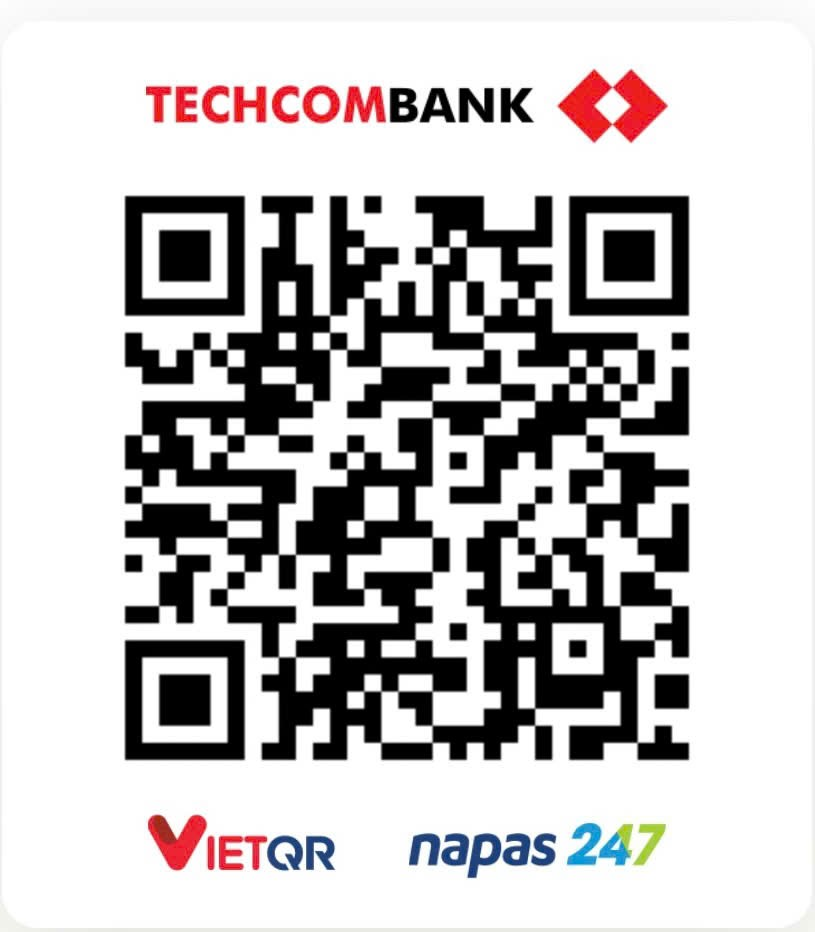
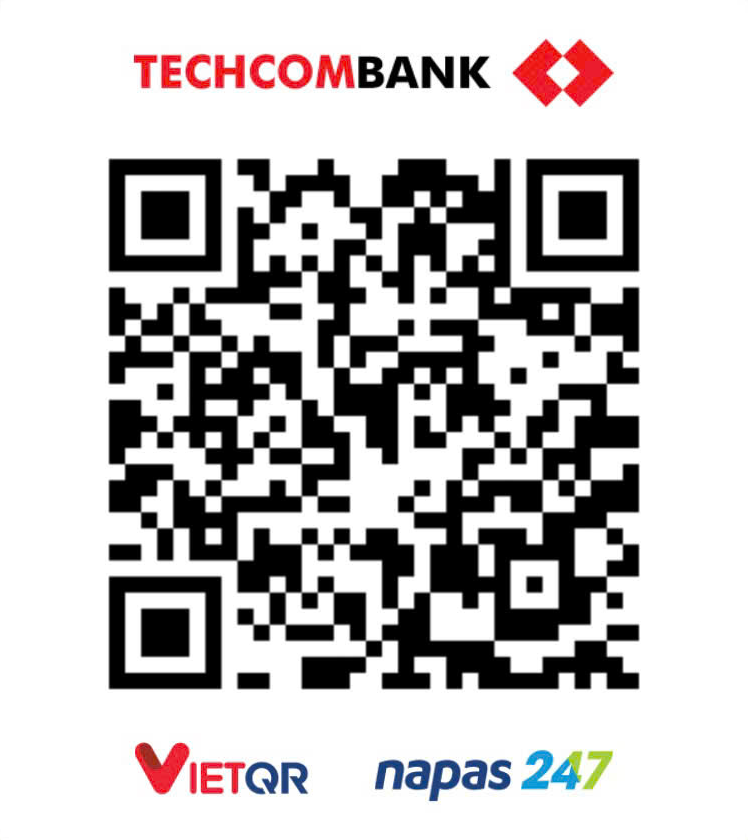
Cap nhat tai khoan nhan ung ho va ma QR: Techcombank 19072950239011, NGUYEN NGOC KHOA

diff --git a/src/data/campaign.ts b/src/data/campaign.ts
@@ -1304,8 +1304,8 @@ export interface DonationAccount {
 export const DONATION_ACCOUNT: DonationAccount = {
   status: 'active',
   bankName: 'Techcombank',
-  accountNumber: '999927052006',
-  accountHolder: 'LE TUAN ANH',
+  accountNumber: '19072950239011',
+  accountHolder: 'NGUYEN NGOC KHOA',
   qrImage: '/images/ung-ho/qr-ung-ho-techcombank.png',
   transferPrefix: 'MTMNV',
   goalAmount: 3000000,
